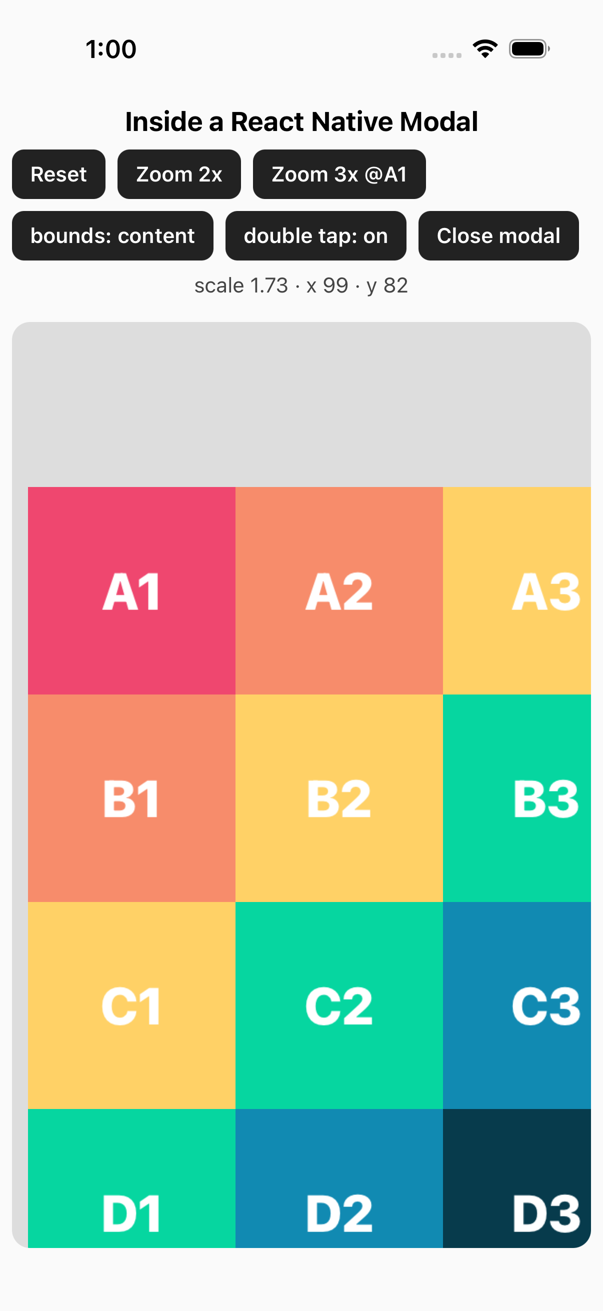
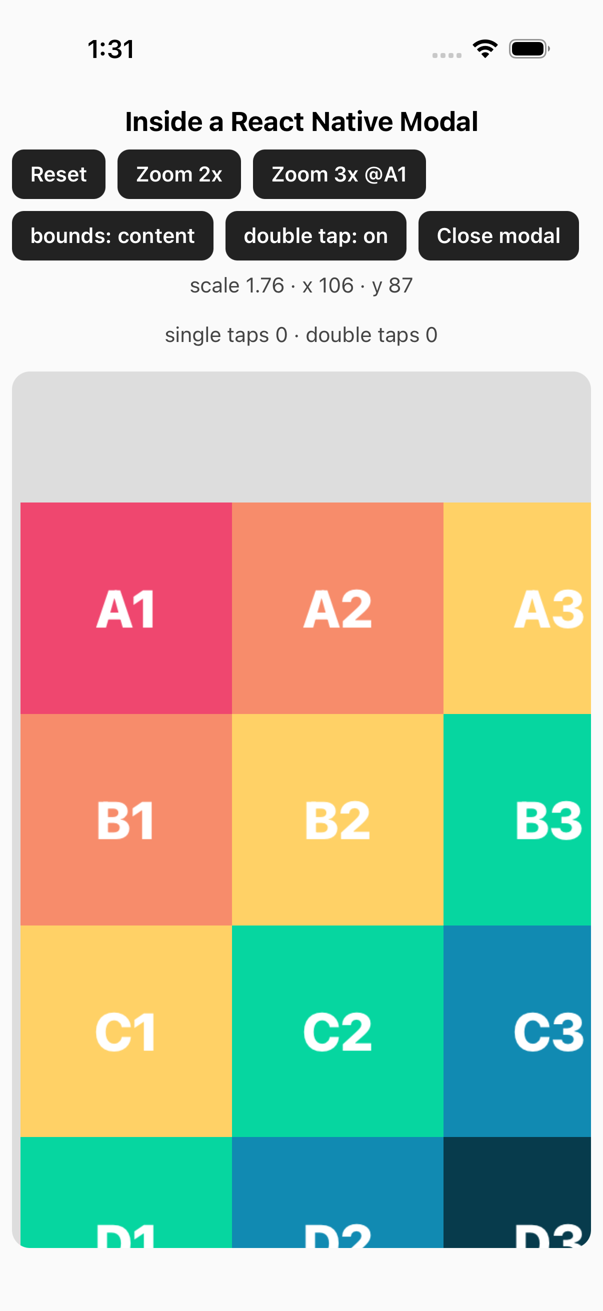
docs: README top with hero, peer table, recipes, migration table; final CHANGELOG; new screenshots

diff --git a/README.md b/README.md
@@ -1,93 +1,76 @@
 # react-native-reanimated-zoomable
 
-Pinch-to-zoom, pan and double-tap-to-zoom for **any** React Native view.
+[![npm](https://img.shields.io/npm/v/react-native-reanimated-zoomable)](https://www.npmjs.com/package/react-native-reanimated-zoomable)
+[![license](https://img.shields.io/npm/l/react-native-reanimated-zoomable)](./LICENSE)
+[![CI](https://github.com/hancandice/react-native-reanimated-zoomable/actions/workflows/ci.yml/badge.svg)](https://github.com/hancandice/react-native-reanimated-zoomable/actions)
 
-- Runs entirely on the UI thread (Reanimated worklets + Gesture Handler) – no JS work per frame
-- Correct focal-point pinch, two-finger pan, fling momentum, rubber-band edges
-- Optional photo-viewer bounds (`panBoundary="content"`), double tap, `ScrollView`/pager friendly mode
-- Works inside `<Modal>` on Android without extra setup
-- New Architecture (Fabric), React 19, Reanimated 4 (and 3), Gesture Handler 3 (and 2), Expo
-- TypeScript, ESM + CommonJS, zero dependencies
+Pinch, pan and double-tap zoom for any view — photo-viewer feel, 100% on the UI thread.
 
-| Android | iOS |
-| :-: | :-: |
-| <img src="./docs/demo-android.gif" width="280" /> | <img src="./docs/demo-ios.gif" width="280" /> |
-
-## Installation
-
-```sh
-npm install react-native-reanimated-zoomable
-# peer dependencies
-npx expo install react-native-reanimated react-native-gesture-handler   # Expo
-npm install react-native-reanimated react-native-gesture-handler        # bare React Native
-```
-
-Follow the Reanimated and Gesture Handler installation guides (Babel plugin for Reanimated 3,
-`react-native-worklets` for Reanimated 4) and wrap your app in `GestureHandlerRootView`.
-
-| Peer | Supported |
-| --- | --- |
-| `react-native` | ≥ 0.76 |
-| `react-native-reanimated` | ≥ 3.16 (incl. 4.x with `react-native-worklets`) |
-| `react-native-gesture-handler` | ≥ 2.20 (incl. 3.x) |
-
-Verified on Android 14 and iOS 26 with Expo SDK 58 (React Native 0.88, New Architecture,
-Reanimated 4.7, Gesture Handler 3.3); type-checked against Reanimated 3.16 / Gesture Handler 2.20 /
-React 18.
-
-## Usage
+<p align="center">
+  <img src="https://raw.githubusercontent.com/hancandice/react-native-reanimated-zoomable/v1.0.0/docs/hero.webp" width="360" alt="Pinching a photo around the fingers, flinging it into the rubber-band edge, and double-tapping to zoom out and in again" />
+</p>
 
 ```tsx
-import { useRef } from 'react';
-import { Button, Image, View } from 'react-native';
-import { Zoomable, type ZoomableRef } from 'react-native-reanimated-zoomable';
-
-export function Photo() {
-  const zoomable = useRef<ZoomableRef>(null);
-
-  return (
-    <View style={{ flex: 1, overflow: 'hidden' }}>
-      <Zoomable
-        ref={zoomable}
-        style={{ flex: 1, justifyContent: 'center', alignItems: 'center' }}
-        maxScale={4}
-        panBoundary="content"
-        doubleTapToZoom
-      >
-        <Image
-          source={{ uri: 'https://picsum.photos/id/2/1000/1000' }}
-          style={{ width: 360, height: 360 }}
-        />
-      </Zoomable>
-      <Button title="Reset" onPress={() => zoomable.current?.reset()} />
-    </View>
-  );
-}
+<Zoomable panBoundary="content" doubleTapToZoom maxScale={4}>
+  <Image source={photo} style={{ width: '100%', aspectRatio: 1 }} />
+</Zoomable>
 ```
 
-> The zoomed content is not clipped by the component; wrap it in a view with
-> `overflow: 'hidden'` if it must stay inside a frame.
+- Pinch stays anchored under your fingers; two-finger drag pans
+- Fling momentum, iOS-style rubber band and spring settle, double tap to zoom at the tapped point
+- Plays nicely with `ScrollView`, pagers and bottom sheets (`panRequiresZoom`)
+- Works inside `<Modal>` on Android, New Architecture, Expo, Reanimated 3 & 4
+
+## Install
+
+```sh
+npx expo install react-native-reanimated-zoomable react-native-reanimated react-native-gesture-handler
+```
+
+Bare React Native:
+
+```sh
+npm install react-native-reanimated-zoomable react-native-reanimated react-native-gesture-handler
+```
+
+Then follow the [Reanimated](https://docs.swmansion.com/react-native-reanimated/docs/fundamentals/getting-started/)
+(Reanimated 4 also needs `react-native-worklets`) and
+[Gesture Handler](https://docs.swmansion.com/react-native-gesture-handler/docs/fundamentals/installation)
+setup, and wrap your app in `GestureHandlerRootView`.
+
+| Peer | Range | Verified |
+| --- | --- | --- |
+| `react-native` | ≥ 0.76 | 0.88 (New Architecture) on Android 14 and iOS 26, Expo SDK 58 |
+| `react-native-reanimated` | ≥ 3.16 < 5 | 4.7 on device; 3.16 type-checked (`yarn typecheck:min`) |
+| `react-native-gesture-handler` | ≥ 2.20 < 4 | 3.3 on device; 2.20 type-checked |
+| `react` | ≥ 18.2 | 19.3 on device; 18 type-checked |
 
 ## Props
 
 | Prop | Type | Default | Description |
 | --- | --- | --- | --- |
-| `style` | `ViewStyle` | – | Layout props (size, flex, margin, position, transform, opacity) stay on the container; the rest (background, padding, child alignment…) applies to the zoomed content. |
+| `style` | `StyleProp<AnimatedStyle<ViewStyle>>` | – | Layout props (size, flex, margin, position, transform, opacity, `overflow`, border radius) stay on the container, so `overflow: 'hidden'` clips the zoomed content. Everything else (background, padding, child alignment…) applies to the content. Animated styles are applied to the content; their `transform` is replaced by the zoom. |
 | `initialScale` | `number` | `1` | Scale on mount and after `reset()`. |
 | `minScale` | `number` | `initialScale` | Smallest pinch scale. |
-| `maxScale` | `number` | `initialScale * 2` | Largest pinch scale. Pinching past a limit rubber-bands and springs back. |
-| `panBoundary` | `'threshold' \| 'content' \| 'none'` | `'threshold'` | `threshold`: up to `threshold * scale / minScale` points (classic behavior). `content`: never reveal empty space inside the container edges. `none`: unlimited. |
-| `threshold` | `number` | `300` | Max translation (points, at `minScale`) for `panBoundary="threshold"`. |
-| `shouldCenterAfterThreshold` | `boolean` | `false` | Released past the boundary → animate back to the center instead of to the boundary. |
-| `disableOvershooting` | `boolean` | `false` | No momentum after a fling. |
-| `disablePanResponderReleaseAction` | `boolean` | `false` | Skip all release animations (boundary snap-back, momentum). The scale is still kept within its limits. |
+| `maxScale` | `number` | `initialScale * 2` | Largest pinch scale (unchanged from 0.x; photo viewers usually want 3–5). Pinching past a limit rubber-bands and springs back. |
+| `panBoundary` | `'content' \| 'threshold' \| 'none'` | `'content'` | `content`: never reveal empty space inside the container edges. `threshold`: up to `panThreshold * scale / minScale` points (0.x behaviour). `none`: unlimited. |
+| `panThreshold` | `number` | `300` | Max translation (points, at `minScale`) for `panBoundary="threshold"`. |
+| `centerOnRelease` | `boolean` | `false` | Released past the boundary → animate back to the center instead of to the boundary. |
+| `releaseAnimation` | `boolean` | `true` | Spring back inside the boundary on release. `false` leaves the content where it was released (the scale is still kept within its limits). |
+| `momentum` | `boolean` | `true` | Keep moving after a fling (decay with rubber band at the edges). |
 | `doubleTapToZoom` | `boolean` | `false` | Double tap zooms to `doubleTapScale` at the tapped point, or back to `initialScale`. |
-| `doubleTapScale` | `number` | `maxScale` | Target scale of a double tap. |
+| `doubleTapScale` | `number` | `min(maxScale, 2.5 × initialScale)` | Target scale of a double tap. |
 | `panRequiresZoom` | `boolean` | `false` | One-finger pan only while zoomed in, so a parent `ScrollView`/pager keeps scrolling. |
 | `disabled` | `boolean` | `false` | Disable all gestures. |
-| `onInteractionStart` | `() => void` | – | Called (JS thread) when a gesture starts. |
-| `onInteractionEnd` | `(t: { scale, translate: { x, y } }) => void` | – | Called (JS thread) when a gesture ends, with the transform it settles to. |
+| `onSingleTap` | `({ x, y }) => void` | – | Single tap (JS thread). Waits until a double tap is ruled out; never fires for a pinch. |
+| `onDoubleTap` | `({ x, y }) => void` | – | Double tap (JS thread), with or without `doubleTapToZoom`. |
+| `onTransform` | `worklet ({ scale, translateX, translateY }) => void` | – | Called on the **UI thread** on every frame. Must be a worklet. |
+| `onInteractionStart` | `() => void` | – | A pinch, pan or double tap starts (JS thread). |
+| `onInteractionEnd` | `({ scale, translate: { x, y } }) => void` | – | An interaction ends, with the transform it settles to (JS thread). |
 | `testID` | `string` | – | |
+
+Animations use springs (`damping 26, stiffness 260`) and honour the system **Reduce Motion** setting
+(`ReduceMotion.System`).
 
 ### Ref
 
@@ -100,23 +83,66 @@ interface ZoomableRef {
 }
 ```
 
-All values are clamped to the scale limits and the pan boundary. `focal` is relative to the
-top-left corner of the component.
+Values are clamped to the scale limits and the pan boundary. `focal` is relative to the top-left
+corner of the component. Calls made before the first layout are applied once the size is known.
+
+## Recipes
+
+**Photo viewer with fading chrome** — hide the header while zoomed, without touching the JS thread:
+
+```tsx
+const zoomed = useSharedValue(0);
+const chrome = useAnimatedStyle(() => ({ opacity: withTiming(zoomed.value ? 0 : 1) }));
+
+<Zoomable
+  style={{ flex: 1, backgroundColor: 'black' }}
+  maxScale={5}
+  doubleTapToZoom
+  onSingleTap={toggleChrome}
+  onTransform={(t) => {
+    'worklet';
+    zoomed.value = t.scale > 1.02 ? 1 : 0;
+  }}
+>
+  <Image source={photo} style={{ width: '100%', height: '100%' }} resizeMode="contain" />
+</Zoomable>
+```
+
+**Inside a feed or pager** — the list keeps scrolling until the user zooms in:
+
+```tsx
+<Zoomable style={{ aspectRatio: 1.5, overflow: 'hidden' }} panRequiresZoom doubleTapToZoom>
+  <Image source={photo} style={{ width: '100%', height: '100%' }} />
+</Zoomable>
+```
+
+**Reset when the content changes:** `useEffect(() => ref.current?.reset({ animated: false }), [uri])`.
+
+> **Pressable children and double tap.** Gestures run alongside the touch system, so a `Pressable`
+> inside a `Zoomable` with `doubleTapToZoom` receives `onPress` for *each* tap of a double tap.
+> Prefer `onSingleTap` on the `Zoomable` for tap actions on zoomable content.
 
 ## Migrating from 0.x
 
-1.0 is a rewrite on Gesture Handler (0.x used `PanResponder` on the JS thread).
+1.0 is a rewrite on Gesture Handler and Reanimated worklets (0.x used `PanResponder` on the JS thread).
 
-1. `react-native-reanimated` is now a **peer** dependency (it used to be a regular dependency,
-   which caused “multiple versions of Reanimated” errors) and `react-native-gesture-handler` is a
-   new peer dependency. Install both and wrap your app in `GestureHandlerRootView`.
-2. All 0.x props and `ref.setValues()` keep working. Behavior changes:
-   - a pinch keeps the point under your fingers fixed, and a two-finger drag pans;
-   - the 0.x “overshooting” drift (10 % further over 1 s) is replaced by real fling momentum;
-   - after a pinch the content is brought back inside the boundary;
-   - a `transform` in `style` no longer disables zooming (it now transforms the container).
-3. New: `minScale`, `panBoundary`, `doubleTapToZoom`, `doubleTapScale`, `panRequiresZoom`,
-   `onInteractionStart`/`onInteractionEnd`, `ref.zoomTo()`/`reset()`/`getValues()`.
+1. **Peer dependencies.** `react-native-reanimated` is now a peer dependency (it used to be a regular
+   dependency, which caused "multiple versions of Reanimated" errors) and `react-native-gesture-handler`
+   is a new one. Install both and wrap your app in `GestureHandlerRootView`.
+2. **New defaults.** `panBoundary` is now `'content'` (0.x behaved like `'threshold'`) and a double tap
+   zooms to `min(maxScale, 2.5 × initialScale)`. Pass `panBoundary="threshold"` to keep the old bounds.
+3. **Renamed props** (the old names still work and log a one-time warning in development):
+
+   | 0.x | 1.0 |
+   | --- | --- |
+   | `threshold` | `panThreshold` |
+   | `shouldCenterAfterThreshold` | `centerOnRelease` |
+   | `disablePanResponderReleaseAction` | `releaseAnimation={false}` |
+   | `disableOvershooting` | `momentum={false}` |
+
+4. **Behaviour.** A pinch keeps the point under the fingers in place and a two-finger drag pans; the
+   0.x "overshooting" drift is replaced by fling momentum; releases spring back inside the boundary;
+   a `transform` in `style` no longer disables zooming.
 
 ## Example app
 
@@ -125,9 +151,11 @@ yarn
 yarn example start   # press a / i, or open it in Expo Go (SDK 58)
 ```
 
-It covers all gestures, the three boundary modes, a React Native `<Modal>` and a `ScrollView`.
-Screenshots from emulator runs are in [`docs/screenshots`](./docs/screenshots).
+*Showcase* is a feed with zoomable photos and a full-screen viewer (light and dark mode);
+*Edge cases* covers the bound modes, the ref API, tap callbacks and a React Native `<Modal>`;
+*ScrollView* shows `panRequiresZoom`. Screenshots from emulator runs are in
+[`docs/screenshots`](./docs/screenshots).
 
 ## License
 
-MIT
+MIT · Example photos from [Unsplash](./example/assets/CREDITS.md)

diff --git a/CHANGELOG.md b/CHANGELOG.md
@@ -1,37 +1,49 @@
 # Changelog
 
-## 1.0.0 — unreleased
+## 1.0.0
 
-Rewrite on Reanimated worklets and Gesture Handler. All gesture handling now runs on the UI thread.
+Rewrite on Reanimated worklets and Gesture Handler. All gesture handling and animation runs on the UI thread.
 
 ### Breaking
 
-- `react-native-reanimated` moved from `dependencies` to `peerDependencies` (≥ 3.16; Reanimated 4 supported).
-- New peer dependency: `react-native-gesture-handler` (≥ 2.20; v3 supported). Your app must be wrapped in
+- `react-native-reanimated` moved from `dependencies` to `peerDependencies` (`>=3.16.0 <5`).
+- New peer dependency `react-native-gesture-handler` (`>=2.20.0 <4`). Your app must be wrapped in
   `GestureHandlerRootView`.
-- Release behavior: the 0.x "overshooting" drift is replaced by fling momentum; after a pinch the content is
-  brought back inside the pan boundary.
+- `panBoundary` defaults to `'content'` (0.x behaved like `'threshold'`).
+- Releases spring back inside the boundary and flings use decay momentum (the 0.x "overshooting" drift is gone).
 
-### Fixed
+### Deprecated (still work, one-time `__DEV__` warning)
 
-- Pinch zoomed around a drifting point; the content under the fingers now stays under the fingers, and moving
-  both fingers pans.
-- Lifting one finger at the end of a pinch made the content jump (Android).
-- `style.transform` silently disabled zooming.
-- `setValues()` mutated the object passed to it.
-- The view measured itself on every render.
-- Works inside React Native `<Modal>` on Android (a nested `GestureHandlerRootView` is rendered internally).
-- Translation is re-clamped when the container size changes (rotation, children layout changes) and the scale
-  when `minScale`/`maxScale` change.
+- `threshold` → `panThreshold`, `shouldCenterAfterThreshold` → `centerOnRelease`,
+  `disablePanResponderReleaseAction` → `releaseAnimation={false}`, `disableOvershooting` → `momentum={false}`.
 
 ### Added
 
-- `minScale`, `panBoundary` (`'threshold' | 'content' | 'none'`), `doubleTapToZoom`, `doubleTapScale`,
-  `panRequiresZoom` (for `ScrollView`/pagers), `onInteractionStart`, `onInteractionEnd`, `testID`.
-- Ref methods `zoomTo()`, `reset()`, `getValues()`.
-- Rubber-band resistance when pinching past the scale limits / dragging past content bounds.
-- ESM + CommonJS builds with `exports`, `sideEffects: false`, strict TypeScript types with JSDoc.
-- Expo SDK 58 example app (React Native 0.88, New Architecture).
+- `minScale`, `panBoundary` (`'content' | 'threshold' | 'none'`), `doubleTapToZoom`, `doubleTapScale`
+  (default `min(maxScale, 2.5 × initialScale)`), `panRequiresZoom` for `ScrollView`s and pagers.
+- `onSingleTap` (waits for double-tap failure), `onDoubleTap`, `onTransform` (UI-thread worklet),
+  `onInteractionStart`, `onInteractionEnd`, `testID`.
+- Ref methods `zoomTo()`, `reset()`, `getValues()`; ref calls made before the first layout are queued.
+- Springs (`damping 26, stiffness 260`) for settles, 280 ms `bezier(0.2, 0, 0, 1)` for double tap / `zoomTo`,
+  decay with rubber band (`0.998`, factor `0.6`), iOS rubber-band curve while dragging past the edges,
+  `ReduceMotion.System` everywhere.
+- `style` accepts Reanimated animated styles; `overflow` and border radius are applied to the
+  untransformed container so `overflow: 'hidden'` clips.
+- ESM + CommonJS builds with `exports`, `sideEffects: false`, strict TypeScript with JSDoc,
+  `yarn typecheck:min` (Reanimated 3.16 / Gesture Handler 2.20 / React 18), CI workflow.
+- Expo SDK 58 example app (React Native 0.88, New Architecture) with a photo-viewer showcase.
+
+### Fixed
+
+- Pinch zoomed around a drifting point; the content under the fingers now stays under the fingers.
+- Lifting one finger at the end of a pinch made the content jump (Android); a pan → pinch → lift
+  sequence made it jump on iOS.
+- A cancelled pan still flung the content.
+- A symmetric pinch was reported as a single tap.
+- `style.transform` silently disabled zooming; `setValues()` mutated its argument; the view measured
+  itself on every render.
+- Works inside React Native `<Modal>` on Android (a nested `GestureHandlerRootView` is rendered internally).
+- Translation is re-clamped when the container size (rotation, children layout) or the scale limits change.
 
 ## 0.2.21
 
